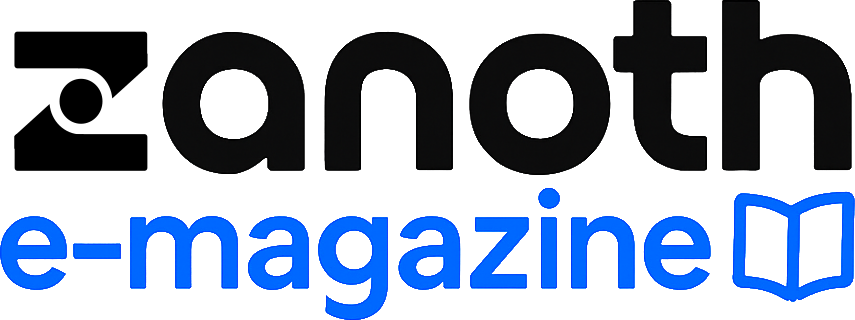
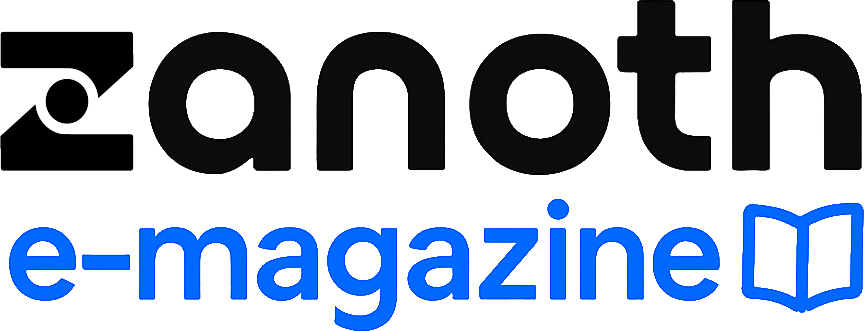
blog post images

diff --git a/src/app/(artworks-section)/(prog)/prog/page.js b/src/app/(artworks-section)/(prog)/prog/page.js
@@ -4,8 +4,12 @@ import React from "react";
 import OmegaChess from './App';
 import Link from 'next/link';
 import Image from 'next/image';
+import { PixPopup } from '@/layout/PixPopup';
+import { useState } from 'react';
 
 const Prog = () => {
+    const [showPixPopup, setShowPixPopup] = useState(false);
+
     return (
         <div className="container-fluid md:container space-y-6 p-4 text-center">
             <OmegaChess />
@@ -14,6 +18,19 @@ const Prog = () => {
             <div className="card mt-4 bg-sky-100">
                 <div className="p-4 flex flex-col items-center justify-center">
                     <h2 className="text-lg font-semibold">Did you like it? Help to improve this project!</h2>
+                    <a className="p-1">
+                                    <button 
+                                    onClick={() => setShowPixPopup(true)} 
+                                    className="bg-blue-900 text-white hover:bg-blue-800 font-bold py-2 px-4 rounded flex flex-col items-center w-36 sm:w-40"
+                                    >
+                                        <img                    
+                                            className="cursor-pointer max-h-[30px] h-auto"
+                                            src="/images/pix.png"
+                                            alt="Pix Logo"
+                                        />
+                                    </button>
+                    </a>
+                    {showPixPopup && <PixPopup onClose={() => setShowPixPopup(false)} />}
                     <Link href="https://www.buymeacoffee.com/ivanzanothw" target="_blank" rel="noopener noreferrer">
                         <img
                             src="https://img.buymeacoffee.com/button-api/?text=&emoji=&slug=ivanzanothw&button_colour=555&font_colour=ddd&font_family=Cookie&outline_colour=aaa&coffee_colour=fff"
@@ -21,7 +38,7 @@ const Prog = () => {
                             className="inline-block mt-4"
                         />
                     </Link>
-
+                    
                     <div className="">or</div>
                     <div className="flex flex-row justify-center items-center text-center">
                         <Link href="/donation" passHref legacyBehavior>

diff --git a/src/app/_components/Menu.tsx b/src/app/_components/Menu.tsx
@@ -11,7 +11,7 @@ type MenuProps = {
 
 export default function Menu({ selected, setSelected }: MenuProps) {
     const router = useRouter();
-    type Routes = '/' | '/music' | '/prog' | '/gallery';
+    type Routes = '/' | '/music' | '/prog' | '/blog';
 
     const Route = (route: Routes) => {
         switch (route) {
@@ -23,6 +23,9 @@ export default function Menu({ selected, setSelected }: MenuProps) {
                 break;
             case '/prog':
                 router.push('/prog');
+                break;
+            case '/blog':
+                router.push('/blog');
                 break;
             default:
                 router.push('/404');
@@ -52,6 +55,13 @@ export default function Menu({ selected, setSelected }: MenuProps) {
                     className={`hover:text-dark-300 bg-gray-400 p-3 transition-colors duration-200 ${selected === '/prog' ? 'bg-sky-100 font-bold' : ''}`}
                 >
                     Programming
+                </Link>
+                 <Link
+                    href="/blog"
+                    onClick={() => setSelected('/blog')}
+                    className={`hover:text-dark-300 bg-gray-400 p-3 mr-0 transition-colors duration-200 ${selected === '/blog' ? 'bg-sky-100 font-bold' : ''}`}
+                >
+                    Blog
                 </Link>
             </nav>
         </div>

diff --git a/src/app/(alternatives)/blog/_components/PostDetail.tsx b/src/app/(alternatives)/blog/_components/PostDetail.tsx
@@ -14,6 +14,7 @@ export type PostProps = {
         email: string;
     } | null;
     content: string;
+    image: string;
     published: boolean;
     createdAt: Date;
     updatedAt: Date;
@@ -39,7 +40,17 @@ const PostDetail: React.FC<{ post: PostProps }> = ({ post }) => {
             <div className="text-sm text-gray-500 mb-4 text-left">
                 <span>Por {authorName}</span> | <span>{new Date(post.createdAt).toLocaleDateString('pt-BR')}</span>
             </div>
-
+            <div className="flex items-center justify-center">
+                {post.image && (
+                    <img
+                        src={post.image}
+                        alt={post.title}
+                        width={400}
+                        height={400}
+                        className="mb-4 rounded-xl"
+                    />
+                )}
+            </div>
             <div className="w-full text-left prose-lg prose-p:my-4 text-gray-700">
                 <ReactMarkdown
                     components={{

diff --git a/src/app/(alternatives)/blog/p/[id]/page.tsx b/src/app/(alternatives)/blog/p/[id]/page.tsx
@@ -14,6 +14,7 @@ type PostWithRelations = {
     id: string;
     title: string;
     content: string | null;
+    image: string | null;
     published: boolean;
     author: {
         name: string;
@@ -40,6 +41,7 @@ async function getPostData(id: string): Promise<PostWithRelations | null> {
         id: post.id,
         title: post.title,
         content: post.content || '',
+        image: post.image || '',
         published: post.published,
         author: post.author ? {
             name: post.author.name || 'Unknown',
@@ -80,9 +82,8 @@ export async function generateMetadata({ params }: PageProps) {
       type: "article",
       images: [
         {
-          url: "https://zanoth.vercel.app/images/zntmag.png",
-          width: 350,
-          height: 137,
+          url: `${post?.image ? `https://zanoth.vercel.app${post.image}` : "https://zanoth.vercel.app/images/logo-metadata.png"}`,          width: 1200,
+          height: 630,
           alt: post?.title || "",
         },
       ],

diff --git a/src/app/_components/Footer.tsx b/src/app/_components/Footer.tsx
@@ -16,10 +16,6 @@ export default function Footer({ setSelected }: FooterProps) {
                         </li>
                         <li className="inline mx-2 text-gray-500">⋅</li>
                         <li className="inline mr-2">
-                            <Link href="/blog" onClick={() => setSelected(null)} className="text-gray-700 hover:text-gray-900">Blog</Link>
-                        </li>
-                        <li className="inline mx-2 text-gray-500">⋅</li>
-                        <li className="inline mr-2">
                             <Link href="/guestbook" onClick={() => setSelected(null)} className="text-gray-700 hover:text-gray-900">Livro de Visitas</Link>
                         </li>
                         <li className="inline mx-2 text-gray-500">⋅</li>

diff --git a/src/app/(alternatives)/blog/_components/LayoutComponents.tsx b/src/app/(alternatives)/blog/_components/LayoutComponents.tsx
@@ -6,7 +6,10 @@ const Header: React.FC = () => {
     return (
         <header>
             <div className="container mx-auto flex items-center justify-between p-4">
-                <h1 className="title text-lg">Public Feed</h1>
+                <div className="flex flex-col justify-center items-center">
+                    <img src="/images/zemag.png" style={{ height: '70px', width: 'auto' }} />
+                    <h1 className="title tracking-wide text-lg font-black">Public Feed</h1>
+                </div>
                 <div className="flex items-center space-x-4">
                     <Link href="/">
                         <i className="fa-solid fa-house cursor-pointer"></i>

diff --git a/src/app/(alternatives)/blog/layout.tsx b/src/app/(alternatives)/blog/layout.tsx
@@ -29,9 +29,9 @@ export const metadata: Metadata = {
     siteName: "Zanoth Independent Digital Artworks",
     images: [
       {
-        url: "https://zanoth.vercel.app/images/zntmag.png",
-        width: 350,
-        height: 137,
+        url: "https://zanoth.vercel.app/images/logo-metadata.png",
+        width: 1200,
+        height: 630,
         alt: "Zanoth Independent Digital Artworks",
       },
     ],
